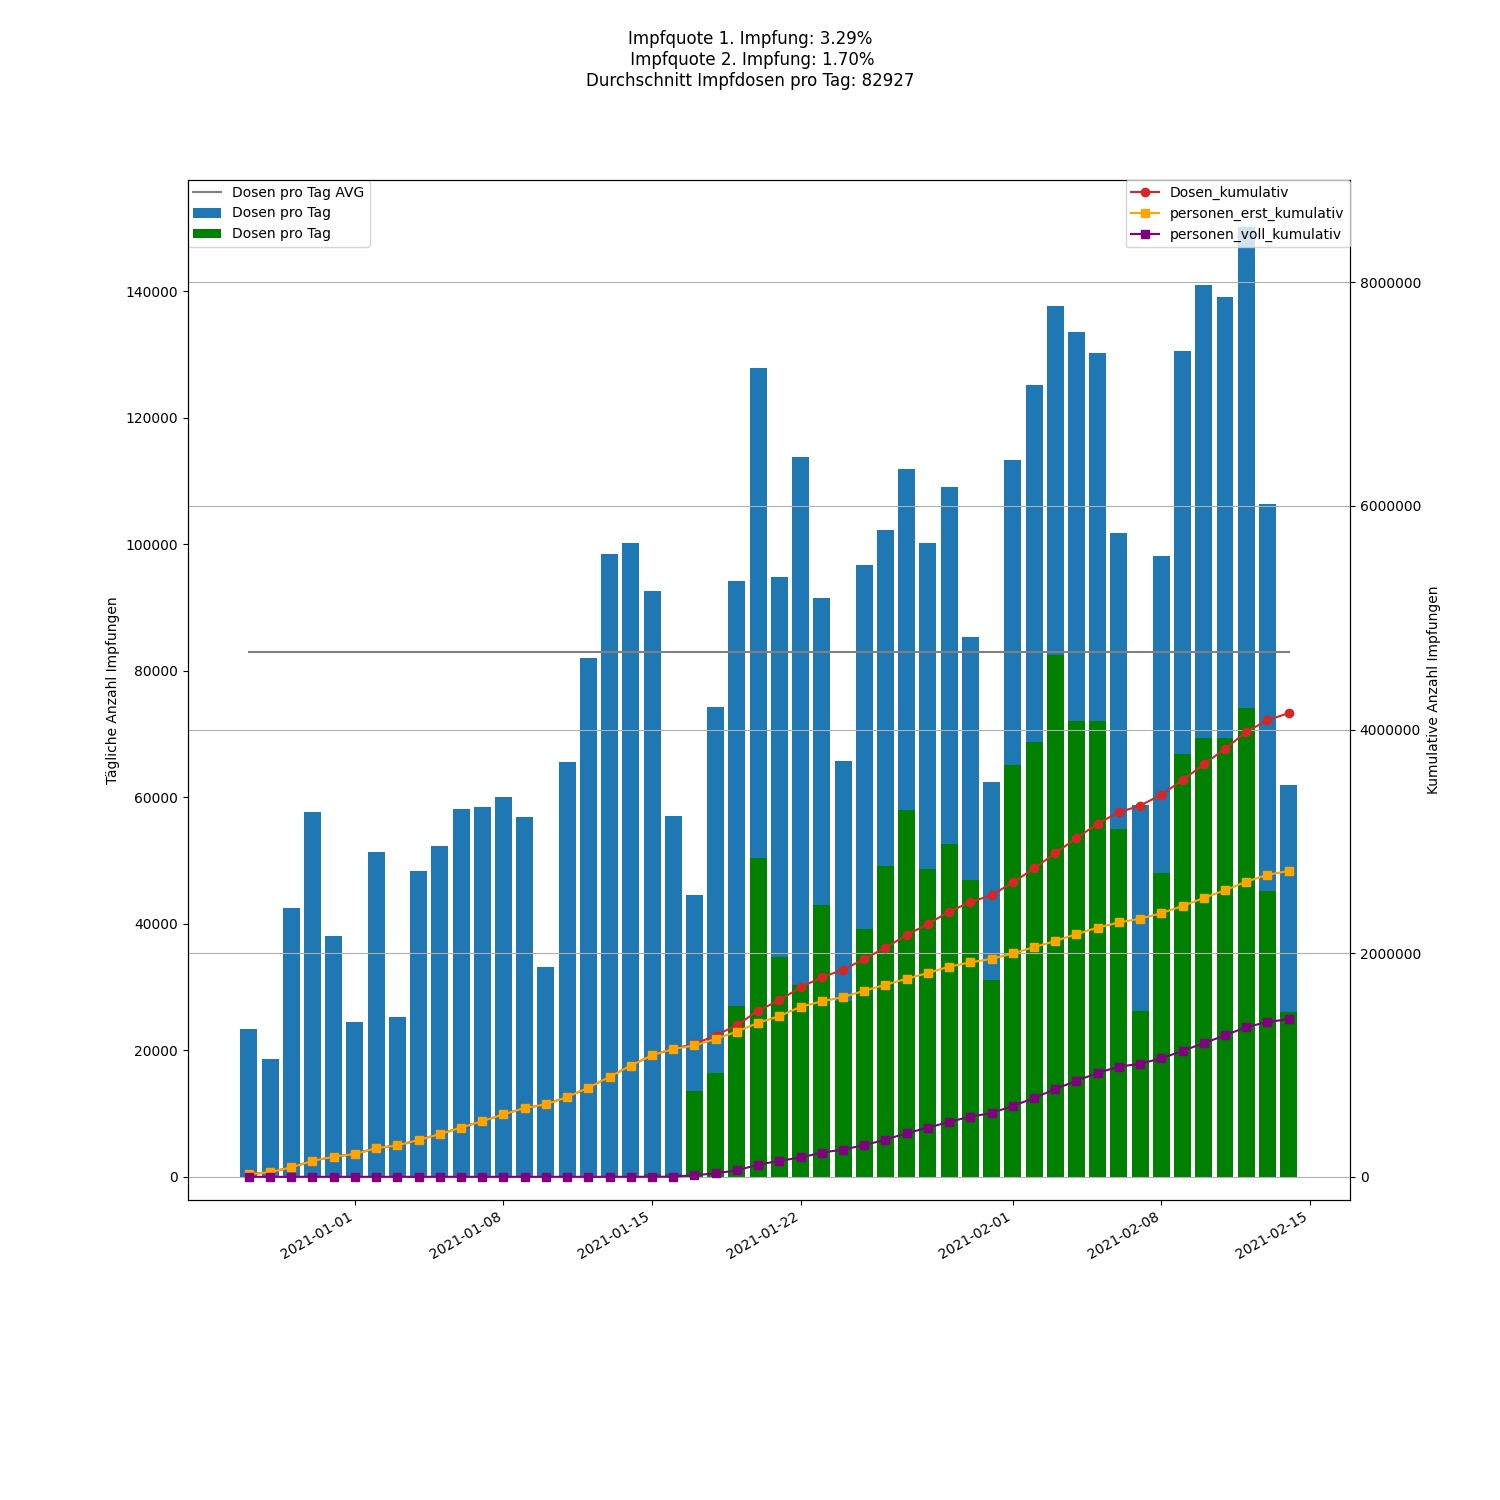
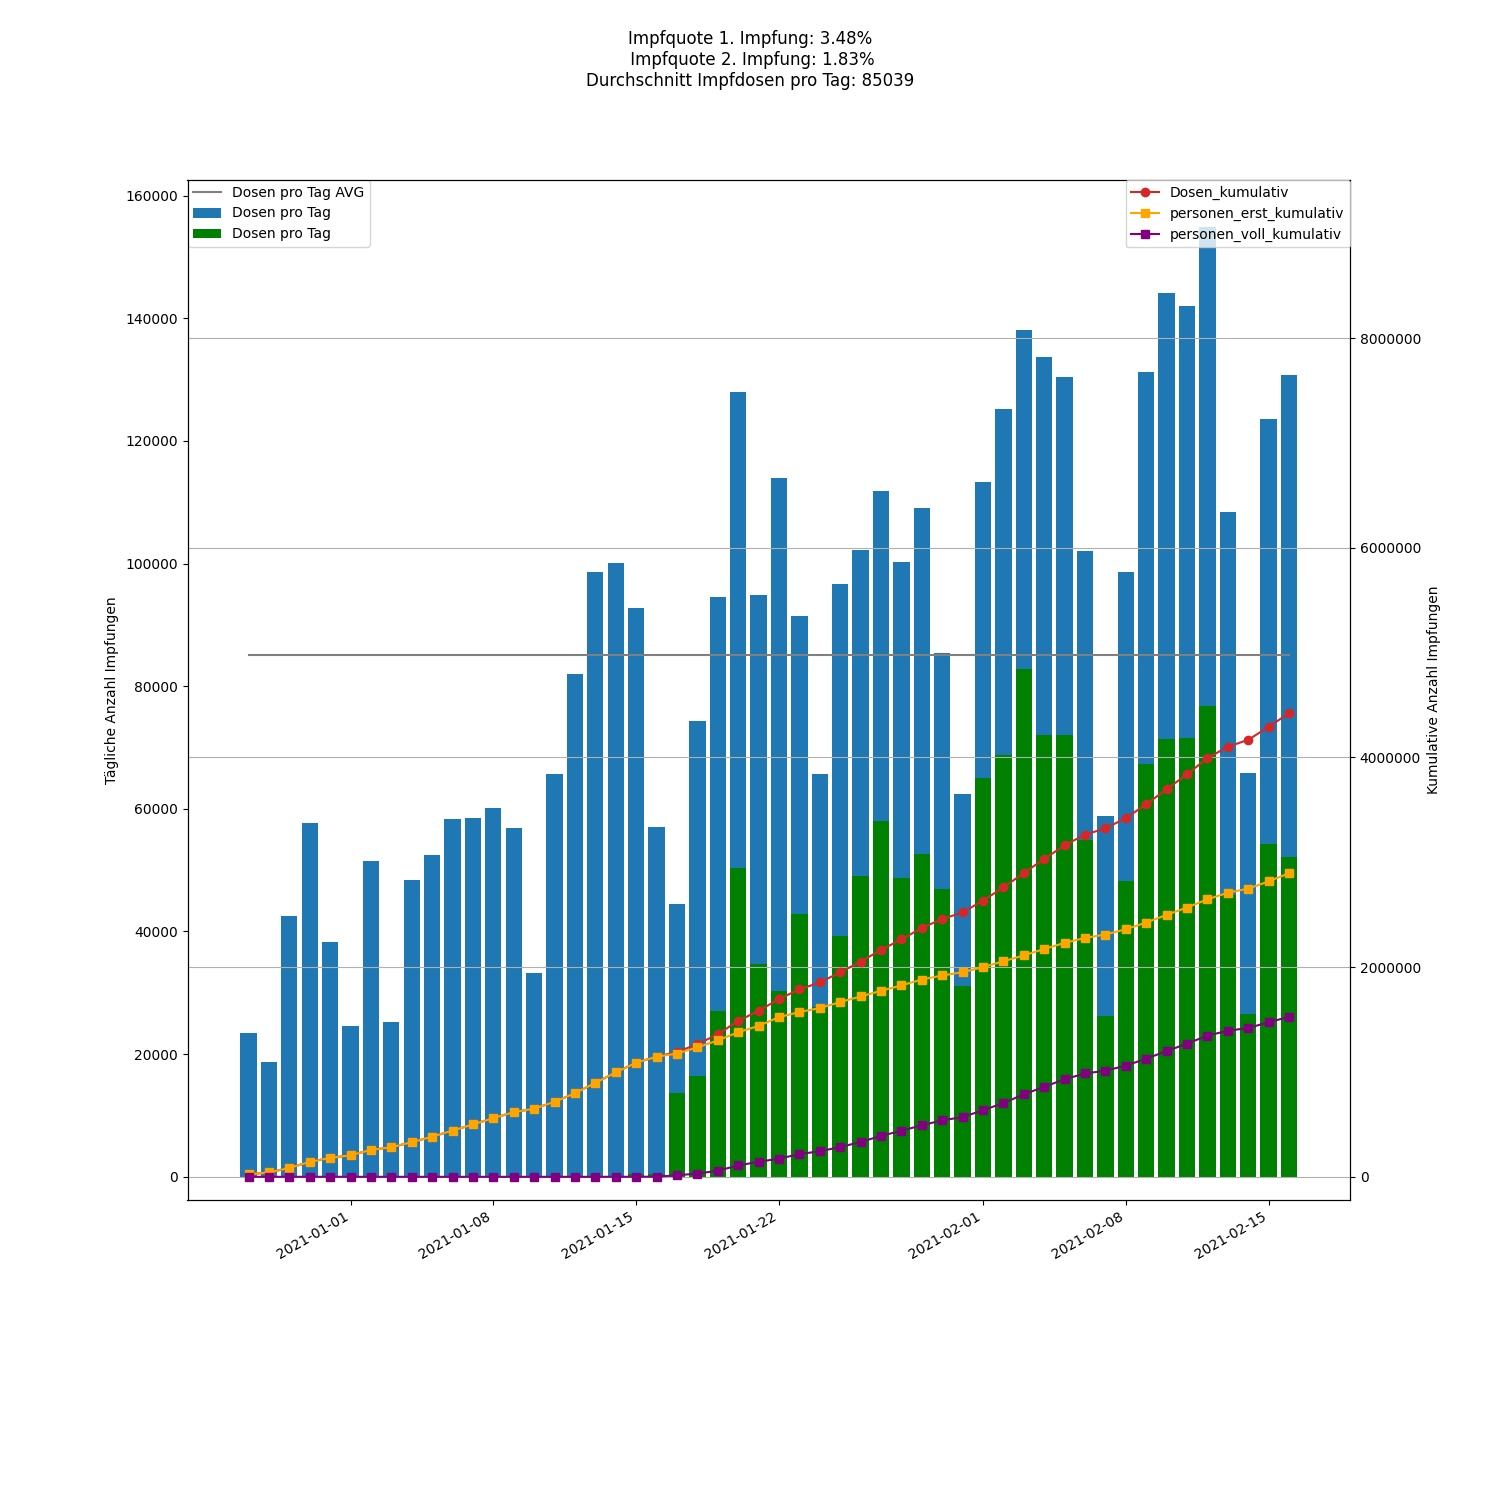
Crontab commit

diff --git a/Readme.md b/Readme.md
@@ -1,19 +1,19 @@
-# Corona vaccine Germany - Stand 2021-02-14
+# Corona vaccine Germany - Stand 2021-02-16
 ## Dashboard by [Simon Hamacher](https://www.shamacher.eu)
 ## Impfstoffe Übersicht
 **Impfstoffhersteller** | **verimpfte Dosen**
 -------- | :--------:
-Biontech | 4003104
-Moderna | 93078
-Astrazeneca | 50166
+Biontech | 4234503
+Moderna | 99971
+Astrazeneca | 87533
 
 
 ## Quoten
-**Total Verimpfte Dosen:** | 4146348
+**Total Verimpfte Dosen:** | 4422007
 -------- | :--------:
-**Erst-Impfquote** | 3.29 %
-**Voll-Impfquote** | 1.70 %
-**Imfungen Durchschnitt** | 82926.96 pro Tag
+**Erst-Impfquote** | 3.48 %
+**Voll-Impfquote** | 1.83 %
+**Imfungen Durchschnitt** | 85038.60 pro Tag
 ## Graphen
 <img src="Impfungen-Corona-01.jpg" alt="Corona-1" title="optionaler Titel" />
 <img src="Impfungen-Corona-02.jpg" alt="Corona-2" title="optionaler Titel" />
